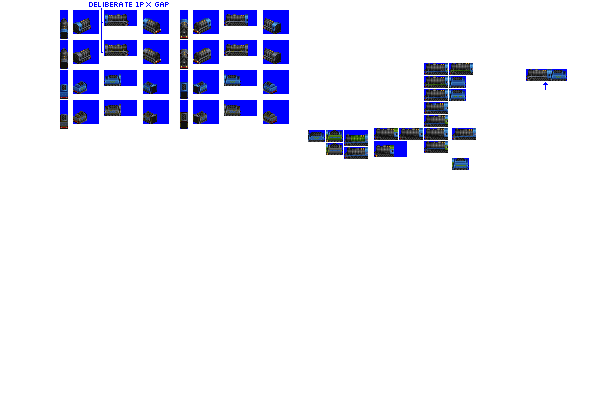
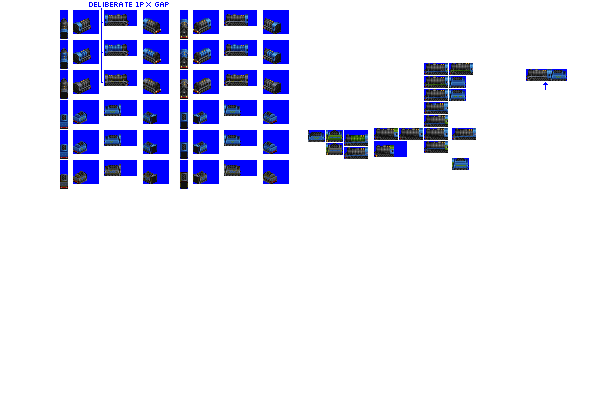
Change: additional livery for Mainstay

diff --git a/src/vehicles/mainstay.py b/src/vehicles/mainstay.py
@@ -15,7 +15,7 @@ def main(roster_id):
         speed=60,
         tractive_effort_coefficient=0.23,
         gen=3,
-        additional_liveries=["FREIGHT_BLACK"],
+        additional_liveries=["BANGER_BLUE", "FREIGHT_BLACK"],
         sprites_complete=True,
     )
 
